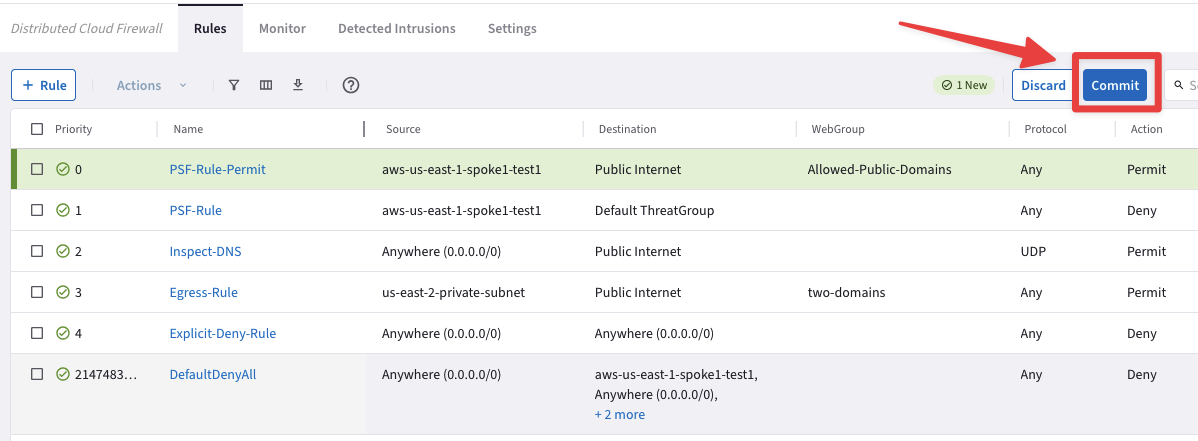
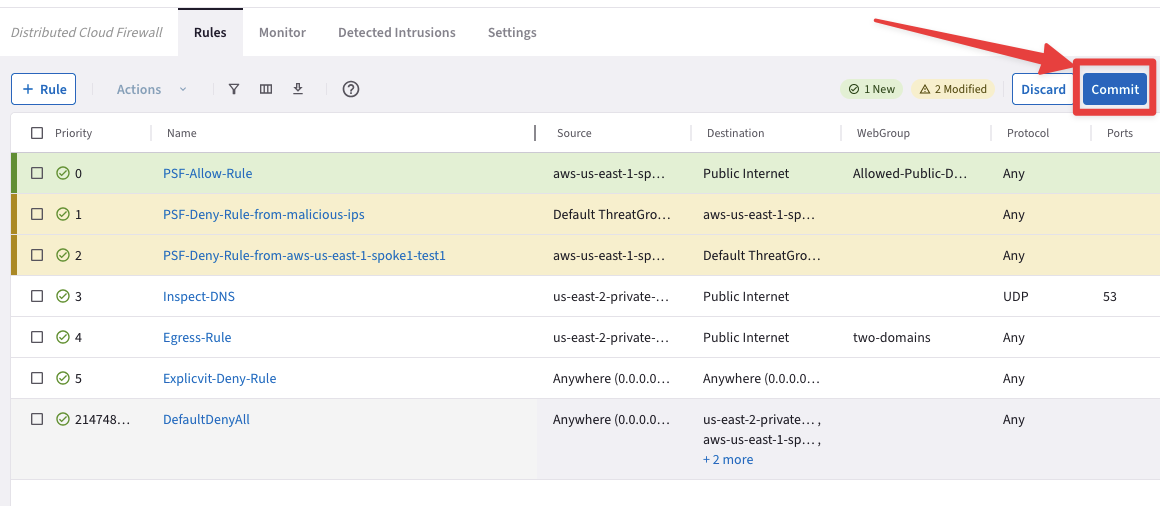
update for pro

diff --git a/ace_pro/docs/lab9.md b/ace_pro/docs/lab9.md
@@ -124,7 +124,7 @@ align: center
 SSH session
 ```
 
-Wait for the instructor to provide a malicious IP. 
+<ins>`Wait for the instructor to provide a malicious IP`</ins>. 
 
 Let's call it `<malicious-IP>`. 
 
@@ -145,7 +145,7 @@ align: center
 Curl towards the malicious IP
 ```
 
-The traffic will be permitted... Let's now enforce the `ThreatIQ mechanism`!
+The traffic will be permitted... Let's now enforce the `Threats detection mechanism`!
 
 ```{note}
 The IP shown in these screenshots  might not be deemed a threat when you read this. 
@@ -190,7 +190,7 @@ Do not forget to click on **Save**.
 
 ```{figure} images/lab9-smart003.png
 ---
-height: 200px
+height: 250px
 align: center
 ---
 SmartGroups List
@@ -229,7 +229,7 @@ Saving the new Rule
 Now before committing, create another DCF rule for blocking also the traffic sourced from **any Malicious IP addresses** towards the **aws-us-east-1-spoke1-test1** instance.
 
 ```{important}
-These two rules will protect the `bi-directional communication`: traffic will be blocked if **aws-us-east-1-spoke1-test1** will try to reach any **Malcious IPs** (by _ProfPoint's DB_), and likewise traffic will be blocked if any **Malicious IPs** (by _ProfPoint's DB_) will try to reach the **aws-us-east-1-spoke1-test1** instance.
+These two rules will protect the `bi-directional communication`: traffic will be blocked if **aws-us-east-1-spoke1-test1** will try to reach any **Malcious IPs** (by _ProofPoint's DB_), and likewise traffic will be blocked if any **Malicious IPs** (by _ProofPoint's DB_) will try to reach the **aws-us-east-1-spoke1-test1** instance.
 ```
 
 Create a new rule clicking on the `"+ Rule"` button:
@@ -264,21 +264,15 @@ Do not forget now to **Commit** your new rules!
 
 ```{figure} images/lab96-newrule-commit.png
 ---
-height: 250px
+height: 350px
 align: center
 ---
 Commit the new rules
 ```
 
-```{important}
-The **`Default ThreatGroup`** can be used in DCF rules to ensure that traffic meeting the ThreatGroup criteria is blocked. When traffic triggers that rule, its DCF rule references are shown on the **Groups > ThreatGroups** tab.
-
-The Default ThreatGroup is regularly updated with data from the `Proofpoint Global Threat Database`.
-```
-
 Explore the content of the `Default ThreatGroup`: 
 
-- Go to **CoPilot > Groups > ThreatGroups** and click on Default ThreatGroup and look at the ProofPoint Malicious IP addresses DB!
+- Go to **CoPilot > Groups > ThreatGroups** and click on **Default ThreatGroup** and look at the ProofPoint Malicious IP addresses DB!
 
 ```{figure} images/lab96-newrule12.png
 ---
@@ -290,7 +284,7 @@ PSF-Rule
 
 ## 8.0 Generate again traffic towards the "Bad Guy"
 
-Now let's delete the **Greenfield-Rule**, such that the **ZTNA** can be restored in the Data PAth!
+Now let's delete the **Greenfield-Rule**, such that the **ZTNA** can be restored in the Data Path!
 
 - Click on the **three dots** icon on the right-hand side of the Greenfield-Rule entry and then choose the `"Delete Rule"` option.
 
@@ -298,7 +292,7 @@ Do not forget to click on **Commit**.
 
 ```{figure} images/lab66-newruledelete.png
 ---
-height: 400px
+height: 350px
 align: center
 ---
 Deletion of the Greenfield-Rule
@@ -320,15 +314,13 @@ align: center
 DCF Rules List
 ```
 
-The previous PSF-Rule will DENY traffic towards the list of the Malicious IP address! 
+### 8.1 Create a new SmartGroup
 
-The `aws-us-east-1-spoke1-test1` instance should only be able to reach the following domains:
+Let's create another rule that will allow the `aws-us-east-1-spoke1-test1` instance to reach solely the following three domains:
 
-1) www.google.com
-2) www.microsoft.com
-3) www.aws.com
-
-### 8.1 Create a PSF-Allow-Rule
+1) www.nginx.com
+2) www.ubuntu.com
+3) www.aviatrix.com
 
 Go to **CoPilot > Groups > WebGroups** and then click on the `"+ WebGroup"` button.
 
@@ -356,7 +348,7 @@ align: center
 WebGroup creation
 ```
 
-### 8.2 Create a DCF rule that will allow traffic towards the three domains!
+### 8.2 Create a PSF-Allow-Rule
 
 Go to **CoPilot > Security > Distributed Cloud Firewall > Rules (default tab)** and create a new rule clicking on the `"+ Rule"` button.
 
@@ -369,7 +361,7 @@ New Rule
 
 Insert the following parameters
 
-- **Name**: <span style='color:#479608'>PSF-Rule-Permit</span>
+- **Name**: <span style='color:#479608'>PSF-Allow-Rule</span>
 - **Source Groups**: <span style='color:#479608'>aws-us-east-1-spoke1-test1</span>
 - **Destination Groups**: <span style='color:#479608'>Public Internet</span>
 - **WebGroups**: <span style='color:#479608'>Allowed-Public-Domains</span>
@@ -391,9 +383,10 @@ Click on the **Commit** button!
 
 ```{figure} images/lab96-newrule201.png
 ---
+height: 400px
 align: center
 ---
-New DCF Rules List
+Commit
 ```
 
 Now from your SSH client, issue the following commands:
@@ -429,221 +422,3 @@ align: center
 ---
 Towards the Malicious IP
 ```
-
-
-
-
-
-
-
-
-
-
-
-
-
-
-
-
-
-
-
-
-
-
-
-
-
-
-
-
-
-
-
-
-
-
-
-
-
-
-
-
-
-
-
-
-
-
-
-
-
-
-
-
-
-
-
-
-
-
-
-
-
-# Lab 9 - COSTIQ
-
-## 1. Objective
-
-This lab will demonstrate how `CostIQ` works.
-
-## 2. CostIQ
-
-- Define the following **Cost Centers** and **Shared Service**:
-
-**<span style='color:orange'>COST CENTERS</span>**:
-
-**AWS**:
-- aws-us-east-1-spoke1
-- aws-us-east-1-spoke2
-
-**GCP**:
-- gcp-us-central1-spoke1
-
-**AZURE**:
-- azure-west-us-spoke1
-- azure-west-us-spoke2
-
-**<span style='color:green'>SHARED SERVICE</span>**:
-
-**NEW YORK DC**:
-- workstation client "edge"
-
-### 2.1 Enable CostIQ
-
-Go to **Copilot > Billing & Cost > CostIQ** and click on the `"Enable CostIQ"` button.
-
-```{figure} images/lab9-costiq.png
----
-height: 250px
-align: center
----
-Enable CostIQ
-```
-
-```{figure} images/lab9-costiq001.png
----
-height: 300px
-align: center
----
-Enable CostIQ
-```
-
-Now click on `"+ Cost Center"` and create the **AWS** Cost Center aforementioned.
-
-```{figure} images/lab9-costiq02.png
----
-align: center
----
-"+ Cost Center"
-```
-
-```{figure} images/lab9-costiq03.png
----
-align: center
----
-AWS
-```
-
-Repeat the action creating the remaining two Cost Centers: **GCP** and **Azure**, associating the corresponing Application VPCs/VNets.
-
-```{figure} images/lab9-costiq04.png
----
-align: center
----
-GCP
-```
-
-```{figure} images/lab9-costiq05.png
----
-align: center
----
-AZURE
-```
-
-You should immediately get insights on how they have been utilized.
-
-```{figure} images/lab9-costiq06.png
----
-height: 150px
-align: center
----
-Cost Centers Overview
-```
-
-## 3. New York DC is the Shared Services
-
-Now let's discover the **CIDRs** of **New York DC**:
-
-- Go to **CoPilot > Diagnostics > Cloud Routes > BGP Info**, then click on the three dots icon and select the `"Show BGP Learned Routes"`.
-
-```{figure} images/lab9-costiq10.png
----
-align: center
----
-Show BGP Learned Routes
-```
-
-You will find out that all the local subnets advertised by the DC belong to the cidr **10.40.0.0/16**.
-
-```{figure} images/lab9-cidr.png
----
-align: center
----
-CIDR
-```
-
-Let's move on the **Shared Services** tab and click on `"+ Shared Service"`.
-
-```{figure} images/lab9-costiq12.png
----
-align: center
----
-"+ Shared Service"
-```
-
-Create the **Shared Service** based on the aforementioned requirements.
-
-```{figure} images/lab9-costiq13.png
----
-align: center
----
-"+ Shared Service"
-```
-
-If you kept running the ping on the Workstation Edge's terminal, then you should see both the relative traffic and the absolute one from any Cost Centers towards the Shared Service.
-
-```{figure} images/lab9-ping.png
----
-align: center
----
-Ping from the Wortkstation "Edge"
-```
-
-```{figure} images/lab9-counter.png
----
-height: 350px
-align: center
----
-From the Cost Center towards the Shared Service
-```
-
-After this lab, this is how the overall topology would look like:
-
-```{figure} images/lab9-final.png
----
-height: 400px
-align: center
----
-Final topology for Lab 9
-```
-
